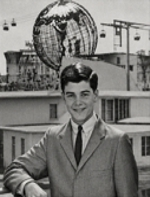
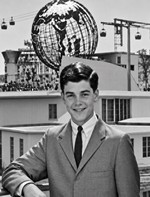
Replace amex10 top portrait with Fair Unisphere photo
Swap /amex10 clipping portrait (amex02.jpg) for the new Rob Bianco
photo, resized to the existing 150×197 slot.

diff --git a/src/app/amex10/page.tsx b/src/app/amex10/page.tsx
@@ -56,7 +56,7 @@ export default function Amex10Page() {
             <div className={styles.clippingPhotos}>
               <Image
                 src="/images/amex10/amex02.jpg"
-                alt="14-year-old Rob Bianco"
+                alt="Rob Bianco at the New York World’s Fair"
                 width={150}
                 height={197}
                 className={styles.portrait}
